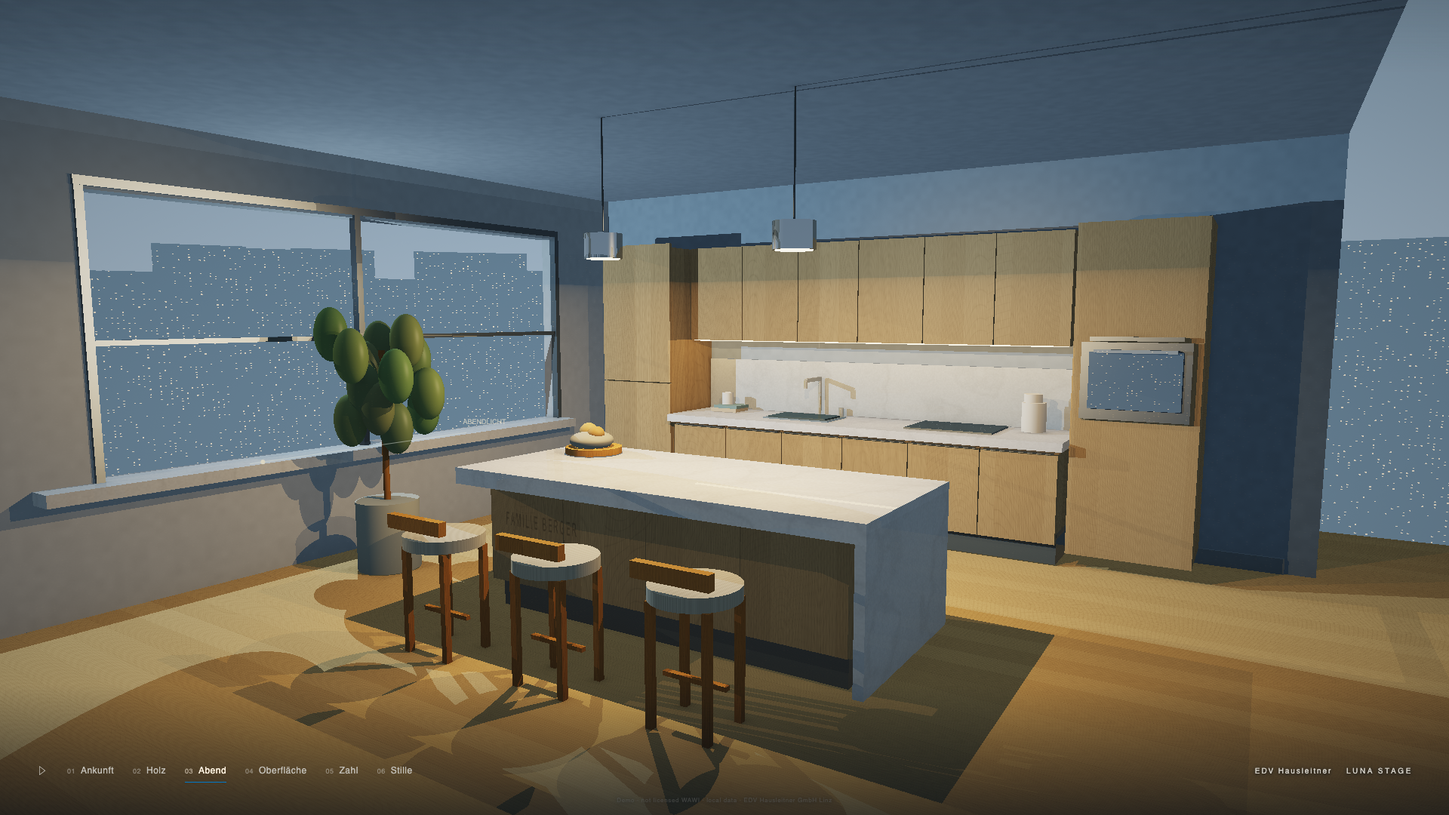
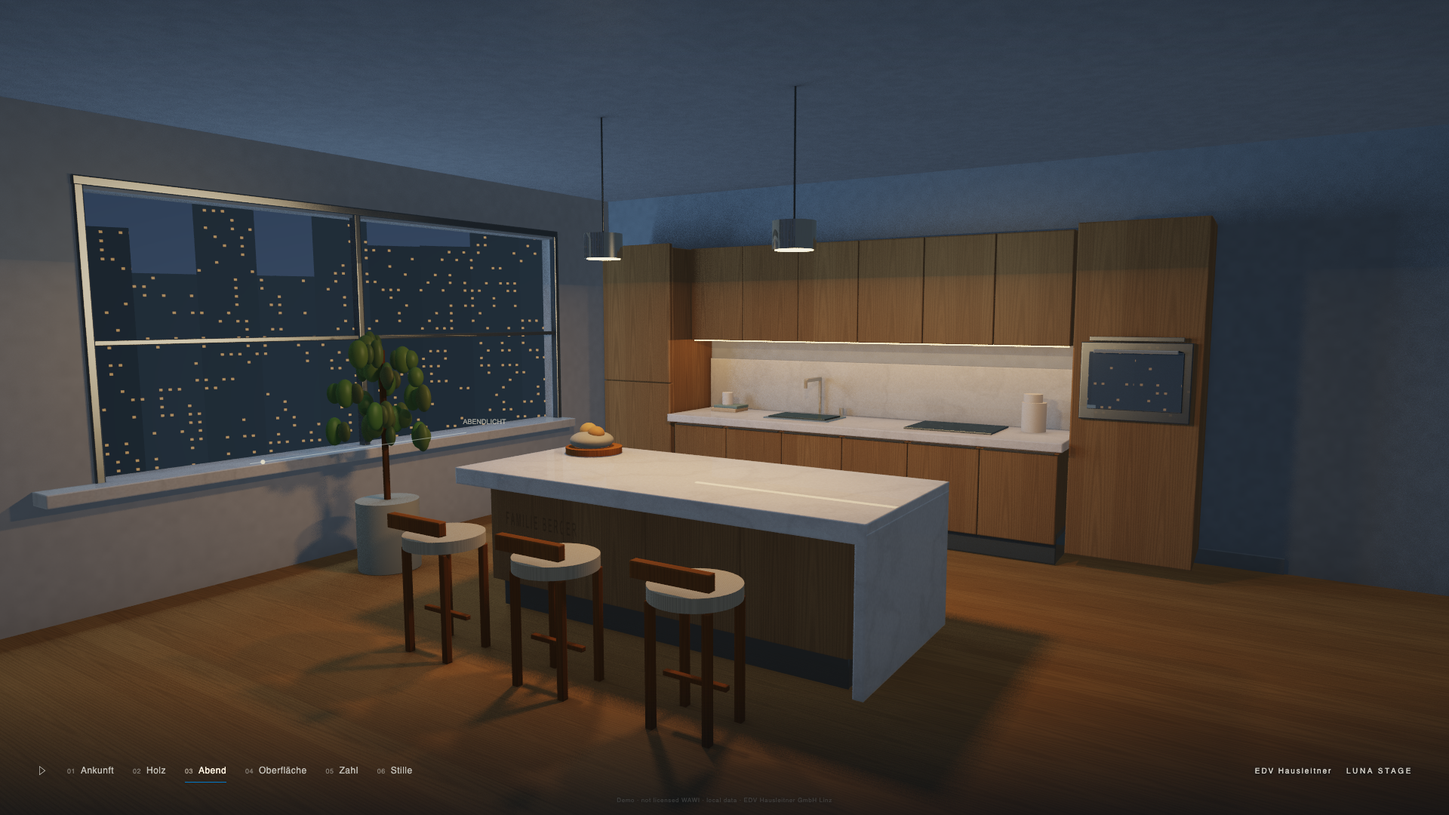
Refine area-light shadows, progressive antialiasing, engraved price and real GPU PNG readback

diff --git a/Luna-Stage.html b/Luna-Stage.html
@@ -25,15 +25,16 @@
 const $=id=>document.getElementById(id), clamp=(v,a=0,b=1)=>Math.max(a,Math.min(b,v)),mix=(a,b,t)=>a+(b-a)*t,smooth=t=>t*t*(3-2*t);
 const V={add:(a,b)=>a.map((v,i)=>v+b[i]),sub:(a,b)=>a.map((v,i)=>v-b[i]),mul:(a,s)=>a.map(v=>v*s),dot:(a,b)=>a.reduce((s,v,i)=>s+v*b[i],0),cross:(a,b)=>[a[1]*b[2]-a[2]*b[1],a[2]*b[0]-a[0]*b[2],a[0]*b[1]-a[1]*b[0]],norm:a=>{let l=Math.hypot(...a)||1;return a.map(v=>v/l)},lerp:(a,b,t)=>a.map((v,i)=>mix(v,b[i],t))};
 const Luna=window.Luna={theme:{accent:'#0078C8',navy:'#101b25',oak:'#a47d4f',chalk:'#e9e1d3'},gpu:{ready:false,backend:'Canvas2D',errors:[],frames:0,invalidate:()=>{}},cam:{},scene:{},hud:{},store:{key:'luna.stage.v1'}};
-Luna.store.read=()=>{try{const o=JSON.parse(localStorage.getItem(Luna.store.key)||'null');return o&&o.version===1?{material:o.material===1?1:0,sun:Number.isFinite(o.sun)?clamp(o.sun):.76,price:o.price===true}:null}catch{return null}};
-Luna.store.write=()=>{try{localStorage.setItem(Luna.store.key,JSON.stringify({version:1,material:Luna.scene.material,sun:Luna.scene.sun,price:Luna.scene.price}));return true}catch{return false}};
+Luna.store.read=()=>{try{const o=JSON.parse(localStorage.getItem(Luna.store.key)||'null');return o&&o.version===1?{material:o.material===1?1:0,sun:Number.isFinite(o.sun)?clamp(o.sun):.76,price:o.price===true,chapter:Number.isInteger(o.chapter)?clamp(o.chapter,0,5):0}:null}catch{return null}};
+Luna.store.write=()=>{try{localStorage.setItem(Luna.store.key,JSON.stringify({version:1,material:Luna.scene.material,sun:Luna.scene.sun,price:Luna.scene.price,chapter:Luna.cam.chapter}));return true}catch{return false}};
 const saved=Luna.store.read();Object.assign(Luna.scene,{family:'Berger',runMM:3600,priceEUR:18740,vat:20,week:38,material:saved?.material||0,sun:saved?.sun??.76,price:saved?.price||false,ceo:false,objects:[]});
 /* Primitive ABI: centre.xyz/type, half-extents.xyz/material, albedo.xyz/shadow. 0 box, 1 ellipsoid, 2 Y-cylinder. */
 const O=Luna.scene.objects;function box(c,s,m=1,col=[1,1,1],shadow=1){O.push({c,s,m,col,type:0,shadow});return O.length-1}function ell(c,s,m,col){O.push({c,s,m,col,type:1,shadow:1})}function cyl(c,r,h,m,col=[1,1,1]){O.push({c,s:[r,h/2,r],m,col,type:2,shadow:1})}
 // Materials: plaster 1, oak/variant 2, stone 3, charcoal 4, metal 5, emission 6, ceramic 7, fixed oak 8, city 9, fabric 10.
 box([0,-.07,.7],[4.5,.07,5.2],8,[.72,.68,.57],0);
-box([0,1.65,-2.86],[3.5,1.65,.07],1,[.28,.33,.35],0);
-box([0,3.27,.0],[3.5,.06,4.5],1,[.38,.40,.40],0);
+box([.5,1.65,-2.86],[4.0,1.65,.07],1,[.28,.33,.35],0);
+box([.5,3.27,.0],[4.0,.06,4.5],1,[.38,.40,.40],0);
+box([4.48,1.65,1.5],[.06,1.65,4.35],1,[.26,.30,.32],0);
 // Window wall, open light aperture. No transparent box covering the view.
 box([-3.33,.40,.1],[.09,.40,3.1],1,[.52,.53,.50],0);box([-3.33,3.01,.1],[.09,.28,3.1],1,[.52,.53,.50],0);
 box([-3.33,1.77,-2.5],[.09,1.02,.58],1,[.52,.53,.5],0);box([-3.33,1.77,3.1],[.09,1.02,.76],1,[.52,.53,.5],0);
@@ -79,7 +80,7 @@ for(const x of [-.62,.79]){cyl([x,2.83,.39],.006,.80,4,[.08,.10,.1]);cyl([x,2.39
 for(const x of [-.85,.02,.9]){for(const dx of [-.16,.16])for(const dz of [-.14,.14])box([x+dx,.31,1.56+dz],[.019,.31,.019],8,[.46,.30,.15]);box([x,.22,1.56],[.18,.012,.016],8,[.46,.30,.15]);cyl([x,.66,1.56],.23,.07,10,[.57,.51,.38]);box([x,.78,1.75],[.218,.04,.025],8,[.55,.38,.20]);}
 // Leafy olive tree by the window, modelled geometry rather than an image.
 cyl([-2.55,.27,.70],.23,.53,7,[.42,.42,.34]);cyl([-2.55,1.00,.70],.024,1.36,8,[.32,.23,.12]);
-for(let i=0;i<15;i++){const a=i*2.4,r=.14+(i%3)*.10,y=1.1+i*.05;ell([-2.55+Math.cos(a)*r,y,.70+Math.sin(a)*r],[.15,.20,.10],7,[.17+(i%2)*.03,.23+(i%3)*.025,.11]);}
+for(let i=0;i<42;i++){const a=i*2.39996,r=.07+(i%7)*.047,y=1.03+(i%13)*.057;ell([-2.55+Math.cos(a)*r,y,.70+Math.sin(a)*r],[.043+(i%3)*.014,.075+(i%2)*.030,.033+(i%4)*.011],7,[.12+(i%3)*.02,.19+(i%4)*.022,.075]);}
 // Small skirting line makes the wall contact explicit.
 box([0,.062,-2.766],[3.30,.06,.012],1,[.25,.28,.28]);
 Luna.scene.bounds=()=>({runMM:3600,modules:6,moduleMM:600,objects:O.length});
@@ -88,7 +89,7 @@ Luna.cam.chapters=[
 {name:'Holz',eye:[1.00,1.26,2.48],to:[-.46,.72,.25],end:[.62,1.17,2.02],sun:.06,fov:45},
 {name:'Abend',eye:[3.12,1.94,4.8],to:[-.23,1.27,-.48],end:[2.88,1.87,4.5],sun:.94,fov:51},
 {name:'Oberfläche',eye:[2.50,1.74,3.80],to:[.0,1.10,-.48],end:[2.16,1.73,3.63],sun:.30,fov:51},
-{name:'Zahl',eye:[2.32,2.65,3.5],to:[.12,.91,.38],end:[2.03,2.45,3.21],sun:.72,fov:43},
+{name:'Zahl',eye:[.94,2.70,3.47],to:[.12,.97,.25],end:[.70,2.58,3.25],sun:.79,fov:47},
 {name:'Stille',eye:[3.4,2.03,5.48],to:[-.30,1.32,-.52],end:[3.4,2.03,5.48],sun:.84,fov:53}
 ];
 Object.assign(Luna.cam,{chapter:0,time:0,duration:48,playing:!matchMedia('(prefers-reduced-motion: reduce)').matches,eye:[3.7,1.92,5.95],to:[-.25,1.30,-.60],fov:51,manual:false,transition:null});
@@ -115,11 +116,11 @@ let woodPattern=null;function makeWood(){let c=document.createElement('canvas');
 makeWood();
 Luna.gpu.drawStill=(canvas,chapter=Luna.cam.chapter,thumb=false)=>{const g=canvas.getContext('2d'),w=canvas.width,h=canvas.height,old={eye:Luna.cam.eye,to:Luna.cam.to,fov:Luna.cam.fov};if(thumb){Luna.cam.eye=cs[chapter].eye;Luna.cam.to=cs[chapter].to;Luna.cam.fov=cs[chapter].fov}const evening=cs[chapter].sun,m=chapter===3?1:Luna.scene.material;let bg=g.createLinearGradient(0,0,w,h);bg.addColorStop(0,evening>.5?'#647780':'#bacad0');bg.addColorStop(1,'#1a2630');g.fillStyle=bg;g.fillRect(0,0,w,h);const faces=[];for(const o of O){let s=o.s,c=o.c;const vertices=[[-1,-1,-1],[1,-1,-1],[1,1,-1],[-1,1,-1],[-1,-1,1],[1,-1,1],[1,1,1],[-1,1,1]].map(p=>V.add(c,p.map((v,j)=>v*s[j])));for(const [ids,n] of [[[4,5,6,7],[0,0,1]],[[1,0,3,2],[0,0,-1]],[[0,4,7,3],[-1,0,0]],[[5,1,2,6],[1,0,0]],[[7,6,2,3],[0,1,0]],[[0,1,5,4],[0,-1,0]]]){const p=ids.map(i=>Luna.cam.project(vertices[i],w,h));if(p.some(v=>v.z<.1))continue;if(V.dot(n,V.sub(Luna.cam.eye,c))<0)continue;faces.push({p,d:p.reduce((s,v)=>s+v.z,0)/4,o,n})}}faces.sort((a,b)=>b.d-a.d);for(const f of faces){const {o,n,p}=f;let col=o.col,wood=o.m===8||(o.m===2&&!m);if(o.m===2)col=m?[.72,.70,.63]:[.62,.45,.28];if(o.m===3)col=o.col;if(o.m===6)col=[1,.78,.40];let k=(n[1]>.5?1:n[0]<-.5?.88:.69)*(1-evening*.27);g.beginPath();p.forEach((v,i)=>i?g.lineTo(v.x,v.y):g.moveTo(v.x,v.y));g.closePath();g.fillStyle='rgb('+col.map(v=>Math.round(clamp(v*k)*255)).join(',')+')';g.fill();if(wood){g.save();g.clip();g.globalAlpha=.36;g.fillStyle=g.createPattern(woodPattern,'repeat');g.fillRect(0,0,w,h);g.restore()}g.strokeStyle='rgba(9,17,21,.15)';g.lineWidth=.45;g.stroke()}if(!thumb){g.fillStyle='rgba(7,15,24,.10)';g.fillRect(0,0,w,h)}Luna.cam.eye=old.eye;Luna.cam.to=old.to;Luna.cam.fov=old.fov};
 function sizeStill(){let c=$('still');c.width=Math.min(1920,innerWidth*devicePixelRatio);c.height=Math.min(1080,innerHeight*devicePixelRatio);Luna.gpu.drawStill(c)}
-Luna.cam.apply(0);if(params.has('chapter'))Luna.cam.goto(clamp(Number(params.get('chapter'))-1,0,5),false);if(params.has('paused'))Luna.cam.playing=false;if(forcedFallback)Luna.cam.playing=false;
+Luna.cam.apply(0);if(saved&&!params.has('chapter')){Luna.cam.goto(saved.chapter,false);Object.assign(Luna.scene,{material:saved.material,sun:saved.sun,price:saved.price});Luna.cam.manual=true;}if(params.has('chapter'))Luna.cam.goto(clamp(Number(params.get('chapter'))-1,0,5),false);if(params.has('paused'))Luna.cam.playing=false;if(forcedFallback)Luna.cam.playing=false;
 sizeStill();Luna.gpu.firstImageMS=performance.now();requestAnimationFrame(()=>{Luna.gpu.firstPaintMS=performance.now()});
 /* A glyph texture is sampled in world coordinates by WGSL, so inscriptions receive room lighting and perspective. */
 const atlas=document.createElement('canvas');atlas.width=2048;atlas.height=1024;const ag=atlas.getContext('2d');
-function drawAtlas(){ag.clearRect(0,0,2048,1024);ag.fillStyle='#fff';ag.font='400 22px Segoe UI, Arial';ag.letterSpacing='5px';ag.fillText('F A M I L I E   B E R G E R',90,98);ag.font='300 158px Segoe UI, Arial';ag.fillText('18.740 €',80,278);ag.letterSpacing='0px';ag.font='400 34px Segoe UI, Arial';ag.fillText('inkl. 20 % USt · Montage KW38',90,357);ag.fillStyle='#999';ag.fillRect(90,401,1370,2);ag.font='400 24px Segoe UI, Arial';ag.fillText('E I N   R A U M .   I H R   Z U H A U S E .',90,456);ag.fillStyle='#fff';ag.font='300 66px Segoe UI, Arial';ag.fillText('31 %',90,686);ag.font='400 25px Segoe UI, Arial';ag.fillText('Marge · intern',90,734);ag.font='400 37px Segoe UI, Arial';ag.fillText('F A M I L I E   B E R G E R',80,881);ag.font='400 24px Segoe UI, Arial';ag.fillText('EICHE NATUR  /  3 600 mm',80,932)}drawAtlas();
+function drawAtlas(){ag.clearRect(0,0,2048,1024);ag.fillStyle='#fff';ag.font='400 22px Segoe UI, Arial';ag.letterSpacing='5px';ag.fillText('F A M I L I E   B E R G E R',90,98);ag.font='300 181px Segoe UI, Arial';ag.fillText('18.740 €',80,278);ag.letterSpacing='0px';ag.font='400 49px Segoe UI, Arial';ag.fillText('inkl. 20 % USt · Montage KW38',90,357);ag.fillStyle='#999';ag.fillRect(90,401,1370,2);ag.font='400 24px Segoe UI, Arial';ag.fillText('E I N   R A U M .   I H R   Z U H A U S E .',90,456);ag.fillStyle='#fff';ag.font='300 85px Segoe UI, Arial';ag.fillText('31 %',90,686);ag.font='400 36px Segoe UI, Arial';ag.fillText('Marge · intern',90,734);ag.font='400 37px Segoe UI, Arial';ag.fillText('F A M I L I E   B E R G E R',80,881);ag.font='400 24px Segoe UI, Arial';ag.fillText('EICHE NATUR  /  3 600 mm',80,932)}drawAtlas();
 const shader=`
 struct Params {eye:vec4f, forward:vec4f, right:vec4f, up:vec4f, view:vec4f, state:vec4f};
 struct Obj {centre:vec4f, size:vec4f, col:vec4f};
@@ -128,6 +129,8 @@ struct Hit {t:f32, id:i32, normal:vec3f};
 @group(0) @binding(1) var<storage,read> objects:array<Obj>;
 @group(0) @binding(2) var lettering:texture_2d<f32>;
 @group(0) @binding(3) var letterSampler:sampler;
+@group(0) @binding(4) var history:texture_2d<f32>;
+var<private> sampleSeed:vec3f;
 @vertex fn vs(@builtin(vertex_index) i:u32)->@builtin(position) vec4f {var p=array<vec2f,3>(vec2f(-1,-1),vec2f(3,-1),vec2f(-1,3));return vec4f(p[i],0,1);}
 fn hash(p:vec3f)->f32 {return fract(sin(dot(p,vec3f(127.1,311.7,74.7)))*43758.5453);}
 fn noise(p:vec3f)->f32{let i=floor(p);let f=fract(p);let a=f*f*(3.-2.*f);return mix(mix(mix(hash(i),hash(i+vec3f(1,0,0)),a.x),mix(hash(i+vec3f(0,1,0)),hash(i+vec3f(1,1,0)),a.x),a.y),mix(mix(hash(i+vec3f(0,0,1)),hash(i+vec3f(1,0,1)),a.x),mix(hash(i+vec3f(0,1,1)),hash(i+vec3f(1,1,1)),a.x),a.y),a.z);}
@@ -136,22 +139,29 @@ if(kind==1){let q=p/s;let d=rd/s;let a=dot(d,d);let b=dot(q,d);let cc=dot(q,q)-1
 if(kind==2){let a=dot(rd.xz,rd.xz);let b=dot(p.xz,rd.xz);let cc=dot(p.xz,p.xz)-s.x*s.x;let h=b*b-a*cc;var t=1e5;var n=vec3f(0,1,0);if(h>=0.&&a>.00001){let tt=(-b-sqrt(h))/a;let y=p.y+tt*rd.y;if(tt>.0005&&abs(y)<s.y){t=tt;n=normalize(vec3f(p.x+tt*rd.x,0,p.z+tt*rd.z));}}if(abs(rd.y)>.00001){let tt=(select(-s.y,s.y,rd.y<0.)-p.y)/rd.y;let q=p.xz+tt*rd.xz;if(tt>.0005&&tt<t&&dot(q,q)<s.x*s.x){t=tt;n=vec3f(0,select(-1.,1.,rd.y<0.),0);}}return vec4f(t,n);}
 let inv=1./(rd+vec3f(.0000001));let a=(-s-p)*inv;let b=(s-p)*inv;let near=min(a,b);let far=max(a,b);let tn=max(max(near.x,near.y),near.z);let tf=min(min(far.x,far.y),far.z);if(tf<max(tn,.0005)){return vec4f(1e5,0,0,0);}var t=tn;if(t<.0005){t=tf;}let q=(p+rd*t)/s;var n=vec3f(0,0,sign(q.z));if(abs(q.x)>abs(q.z)&&abs(q.x)>abs(q.y)){n=vec3f(sign(q.x),0,0);}else if(abs(q.y)>abs(q.z)){n=vec3f(0,sign(q.y),0);}return vec4f(t,n);}
 fn trace(ro:vec3f,rd:vec3f,limit:f32,shadows:bool)->Hit{var hit=Hit(limit,-1,vec3f(0));for(var i=0u;i<arrayLength(&objects);i++){let o=objects[i];if(shadows&&o.col.w<.5){continue;}let h=intersect(ro,rd,o);if(h.x<hit.t){hit=Hit(h.x,i32(i),h.yzw);}}return hit;}
-fn sky(rd:vec3f)->vec3f{let day=u.view.z;let y=clamp(rd.y*.7+.43,0.,1.);var c=mix(mix(vec3f(.91,.79,.58),vec3f(.34,.57,.73),y),mix(vec3f(.27,.34,.43),vec3f(.035,.10,.19),y),day);if(rd.y<.07){let k=floor(atan2(rd.z,rd.x)*25.);let height=.025+hash(vec3f(k,2,3))*.11;let building=step(rd.y,height);c=mix(c,mix(vec3f(.30,.37,.39),vec3f(.048,.084,.12),day),building*.84);let wx=fract(atan2(rd.z,rd.x)*230.);let wy=fract(rd.y*390.);let lit=step(.81,hash(vec3f(floor(atan2(rd.z,rd.x)*230.),floor(rd.y*390.),7)));c+=vec3f(.69,.47,.22)*lit*step(.26,wx)*step(wx,.58)*step(.3,wy)*step(wy,.64)*building*day*.9;}return c;}
-fn wood(p:vec3f,n:vec3f,mat:i32)->vec3f{var uv=vec2f(p.x,p.y);if(abs(n.x)>.5){uv=vec2f(p.z,p.y);}if(n.y>.5){uv=vec2f(p.x,p.z);if(mat==8){uv=vec2f(p.z,p.x);}}let board=floor(uv.x/.19);let offset=hash(vec3f(board,f32(mat),1));let x=uv.x*69.+offset*7.;let y=uv.y;let warp=noise(vec3f(uv.x*3.,y*.85,offset))*4.6+sin(y*2.1+offset*9.)*.6;let grain=sin((x+warp)*5.7)*.5+.5;let fine=pow(max(0.,sin((x+warp)*31.)),14.);let pore=noise(vec3f(uv.x*650.,y*14.,offset));let ring=pow(grain,9.);let knot=sin(length(vec2f((uv.x-(board*.19+.095))*45.,(y-.4-offset)*4.))*19.);var c=mix(vec3f(.27,.151,.066),vec3f(.59,.401,.203),.64+offset*.17);c*=.88+.14*grain-.10*ring-.09*fine+.075*pore+.028*knot;if(mat==8){c*=1.13;let seam=smoothstep(.0,.008,min(fract(uv.x/.19),1.-fract(uv.x/.19)));c*=.82+.18*seam;}return c;}
-fn baseColor(p:vec3f,n:vec3f,id:i32)->vec3f {let o=objects[id];let m=i32(o.size.w);var c=o.col.xyz;if(m==2){c=mix(wood(p,n,m),vec3f(.65,.615,.532),u.view.w);}if(m==8){c=wood(p,n,m)*o.col.xyz*1.8;}if(m==1){c*=.94+.09*noise(p*19.)+.026*noise(p*170.);}if(m==3){let v=noise(p*3.6)+noise(p*11.)*.28;let veins=pow(abs(sin(p.x*3.+p.z*3.2+v*5.)),24.);c*=.87+.095*noise(p*95.)+.07*v-.068*veins;}if(m==10){let weave=sin(p.x*510.)*sin(p.z*510.);c*=.88+.10*weave;}return c;}
+fn sky(rd:vec3f)->vec3f{let day=u.view.z;let y=clamp(rd.y*.75+.45,0.,1.);var c=mix(mix(vec3f(.69,.64,.50),vec3f(.30,.46,.57),y),mix(vec3f(.052,.078,.12),vec3f(.007,.021,.052),y),smoothstep(.35,1.,day));
+let az=atan2(rd.z,rd.x);let k=floor(az*19.);let height=.014+hash(vec3f(k,2,3))*.11;
+if(rd.y<height){let distance=hash(vec3f(k,4,8));c=mix(vec3f(.24,.29,.30),vec3f(.012,.025,.040),day)*(.65+distance*.28);let grid=vec2f(az*130.,rd.y*120.);let f=fract(grid);let lit=step(.78,hash(vec3f(floor(grid),7)));let pane=smoothstep(.17,.23,f.x)*(1.-smoothstep(.50,.59,f.x))*smoothstep(.24,.32,f.y)*(1.-smoothstep(.51,.60,f.y));c+=vec3f(.32,.18,.062)*lit*pane*day;}
+return c;}
+fn wood(p:vec3f,n:vec3f,mat:i32)->vec3f{var uv=vec2f(p.x,p.y);if(abs(n.x)>.5){uv=vec2f(p.z,p.y);}if(n.y>.5){uv=vec2f(p.x,p.z);if(mat==8){uv=vec2f(p.z,p.x);}}
+let board=floor(uv.x/.22);let offset=hash(vec3f(board,f32(mat),1));let bx=fract(uv.x/.22)-.5;let yy=uv.y+offset*3.;let warp=noise(vec3f(uv.x*4.,yy*.95,offset))*1.2+sin(yy*2.0+offset*12.)*.14;
+let rings=sqrt(pow(bx*2.4+warp*.16,2.)+pow(yy*.24,2.))*39.;let grain=.5+.5*sin(rings+noise(vec3f(uv.x*80.,yy*3.,offset))*.65);let pores=pow(max(0.,sin(uv.x*1600.+warp*25.)),14.);let variation=noise(vec3f(uv.x*250.,yy*8.,offset));var c=mix(vec3f(.235,.122,.053),vec3f(.42,.268,.124),.49+offset*.24);c*=.85+.23*grain-.15*pow(grain,13.)-.07*pores+.11*variation;
+if(mat==8){c*=.85;let seam=smoothstep(.0,.011,min(fract(uv.x/.22),1.-fract(uv.x/.22)));c*=.89+.11*seam;}return c;}
+fn baseColor(p:vec3f,n:vec3f,id:i32)->vec3f {let o=objects[id];let m=i32(o.size.w);var c=o.col.xyz;if(m==2){c=mix(wood(p,n,m),vec3f(.52,.48,.405),u.view.w);}if(m==8){c=wood(p,n,m)*o.col.xyz*1.8;}if(m==1){c*=.94+.09*noise(p*19.)+.026*noise(p*170.);}if(m==3){let v=noise(p*3.6)+noise(p*11.)*.28;let veins=pow(abs(sin(p.x*3.+p.z*3.2+v*5.)),24.);c*=.87+.095*noise(p*95.)+.07*v-.068*veins;}if(m==10){let weave=sin(p.x*510.)*sin(p.z*510.);c*=.88+.10*weave;}return c;}
 fn glyph(uv:vec2f)->f32{if(any(uv<vec2f(0))||any(uv>vec2f(1))){return 0.;}return textureSampleLevel(lettering,letterSampler,uv,0.).a;}
 fn inscription(p:vec3f,n:vec3f,c:vec3f)->vec3f{var col=c;if(n.y>.9&&abs(p.y-.959)<.008&&p.x>-.76&&p.x<1.39&&p.z>-.0&&p.z<1.03){let uv=vec2f((p.x+.76)/2.15,(p.z+.005)/1.05*.77);var a=glyph(uv);if(uv.y<.52){a*=u.state.x;}else{a*=u.state.y;}let edge=glyph(uv+vec2f(.00065,.001))*select(u.state.x,u.state.y,uv.y>.52);col=mix(col,col*.17,a*.88);col+=vec3f(.18,.16,.12)*max(0.,edge-a);}
 if(n.z>.9&&abs(p.z-.926)<.009&&abs(p.x)<1.23&&p.y>.32&&p.y<.77&&u.state.z<.5){let uv=vec2f((p.x+1.13)/2.8, .81+(.75-p.y)*.31);let a=glyph(uv);col=mix(col,col*.42,a*.55);}return col;}
+fn random2(k:f32)->vec2f{return vec2f(hash(sampleSeed+vec3f(k,17,31)),hash(sampleSeed+vec3f(41,k,73)))-.5;}
 fn visibility(p:vec3f,n:vec3f,l:vec3f,d:f32)->f32 {return select(0.,1.,trace(p+n*.002,l,d,true).id<0);}
-fn lighting(p:vec3f,n:vec3f,rd:vec3f,id:i32)->vec3f{let o=objects[id];let m=i32(o.size.w);let day=u.view.z;var base=inscription(p,n,baseColor(p,n,id));if(m==6){return o.col.xyz*(1.+day*2.4);}let wallContact=1.-.23*exp(-max(0.,p.y)*5.);let amb=mix(vec3f(.38,.42,.44),vec3f(.10,.145,.205),day);let up=.66+.34*max(n.y,0.);var col=base*amb*up*wallContact;
+fn lighting(p:vec3f,n:vec3f,rd:vec3f,id:i32)->vec3f{let o=objects[id];let m=i32(o.size.w);let day=u.view.z;var base=inscription(p,n,baseColor(p,n,id));if(m==6){return o.col.xyz*(.7+day*1.8);}let wallContact=1.-.23*exp(-max(0.,p.y)*5.);let amb=mix(vec3f(.40,.42,.42),vec3f(.12,.145,.195),day);let up=.66+.34*max(n.y,0.);var col=base*amb*up*wallContact;
 // Large window: broad, directional diffuse light and geometrically tested contacts.
-let window=vec3f(-3.15,2.15,.55);let wv=window-p;let wl=normalize(wv);let wn=max(dot(n,wl),0.);let wvis=visibility(p,n,wl,length(wv));let win=mix(vec3f(1.28,1.29,1.22),vec3f(.32,.46,.64),day);col+=base*win*wn*wvis*.70;
+let wj=random2(2.);let window=vec3f(-3.15,1.83+wj.x*1.65,.35+wj.y*3.4);let wv=window-p;let wl=normalize(wv);let wn=max(dot(n,wl),0.);let wvis=visibility(p,n,wl,length(wv));let win=mix(vec3f(1.18,1.19,1.13),vec3f(.115,.205,.355),day);col+=base*win*wn*wvis*.70;
 // The moving sun is admitted only through the physical window aperture.
-let sl=normalize(vec3f(-1.,mix(.79,.21,day),mix(-.32,.20,day)));let t=(-3.28-p.x)/sl.x;let wp=p+sl*t;let aperture=select(0.,1.,wp.y>.86&&wp.y<2.76&&wp.z> -1.9&&wp.z<2.30);let sv=visibility(p,n,sl,15.);col+=base*vec3f(1.8,1.55,1.16)*max(dot(n,sl),0.)*sv*aperture*(1.-day)*1.65;
+let sj=random2(4.)*.028;let sl=normalize(vec3f(-1.,mix(.79,.21,day)+sj.x,mix(-.32,.20,day)+sj.y));let t=(-3.28-p.x)/sl.x;let wp=p+sl*t;let aperture=select(0.,1.,wp.y>.86&&wp.y<2.76&&wp.z> -1.9&&wp.z<2.30);let sv=visibility(p,n,sl,15.);col+=base*vec3f(1.8,1.55,1.16)*max(dot(n,sl),0.)*sv*aperture*pow(1.-day,3.)*1.8;
 // Warm 2700 K pendant pools: shadow rays give contact shadows on the slab.
-for(var j=0;j<2;j++){let lp=vec3f(select(-.62,.79,j==1),2.27,.39);let d=lp-p;let dist=length(d);let ld=d/dist;let nl=max(0.,dot(n,ld));let cone=pow(max(0.,ld.y),.30);let lv=visibility(p,n,ld,dist-.025);let power=mix(.16,1.25,day);col+=base*vec3f(1.,.67,.34)*nl*lv*cone*power/(.55+dist*dist*.44);let h=normalize(ld-rd);let spec=pow(max(0.,dot(n,h)),select(45.,145.,m==5));col+=vec3f(1.,.78,.48)*spec*lv*power*select(.03,.6,m==5||m==4);}
+for(var j=0;j<2;j++){let pj=random2(9.+f32(j))*.22;let lp=vec3f(select(-.62,.79,j==1)+pj.x,2.27,.39+pj.y);let d=lp-p;let dist=length(d);let ld=d/dist;let nl=max(0.,dot(n,ld));let cone=pow(max(0.,ld.y),.30);let lv=visibility(p,n,ld,dist-.025);let power=mix(.04,.76,day);col+=base*vec3f(1.,.57,.255)*nl*lv*cone*power/(.55+dist*dist*.44);let h=normalize(ld-rd);let spec=pow(max(0.,dot(n,h)),select(45.,145.,m==5));col+=vec3f(1.,.78,.48)*spec*lv*power*select(.03,.6,m==5||m==4);}
 // Strip illumination, with vertical falloff and dark countertop contact.
-if(p.z< -1.86&&abs(p.x)<1.88&&p.y<1.70&&p.y>.88){let ld=normalize(vec3f(0.,1.696-p.y,-2.35-p.z));let light=exp(-length(vec2f(p.y-1.69,p.z+2.38))*1.5);col+=base*vec3f(1.0,.65,.32)*light*(.24+day*.9)*max(.28,dot(n,ld));}
+if(p.z< -1.86&&abs(p.x)<1.88&&p.y<1.70&&p.y>.88){let ld=normalize(vec3f(0.,1.696-p.y,-2.35-p.z));let light=exp(-length(vec2f(p.y-1.69,p.z+2.38))*1.5);col+=base*vec3f(1.0,.55,.24)*light*(.24+day*.9)*max(.28,dot(n,ld));}
 // Recess AO: analytically darken points close to other solid bounds. Distance-bounded and stable.
 var ao=1.;if(m!=6){for(var i=0u;i<arrayLength(&objects);i++){if(i==u32(id)||objects[i].col.w<.5){continue;}let ob=objects[i];let q=abs(p+n*.03-ob.centre.xyz)-ob.size.xyz;let dd=length(max(q,vec3f(0.)));if(dd<.12){let align=max(.0,dot(n,normalize(ob.centre.xyz-p)));ao*=1.-exp(-dd*36.)*align*.23;}}}col*=max(.40,ao);
 if(m==3||m==5||m==4){let rr=reflect(rd,n);let rh=trace(p+n*.004,rr,18.,false);var reflected=sky(rr);if(rh.id>=0){reflected=baseColor(p+n*.004+rr*rh.t,rh.normal,rh.id)*mix(vec3f(.4,.43,.44),vec3f(.20,.25,.30),day);if(i32(objects[rh.id].size.w)==6){reflected=objects[rh.id].col.xyz*1.9;}}let fres=pow(1.-max(0.,dot(n,-rd)),5.);let reflectivity=select(.055,.4,m==5);col=mix(col,reflected,clamp(reflectivity+fres*.38,0.,.70));}
@@ -159,12 +169,25 @@ if(m==3||m==5||m==4){let rr=reflect(rd,n);let rh=trace(p+n*.004,rr,18.,false);va
 if(m==4&&n.y>.8&&p.y>.99&&p.z< -2.14&&p.x>.5&&p.x<1.3){for(var j=0;j<4;j++){let cc=vec2f(.71+f32(j%2)*.36,-2.57+f32(j/2)*.29);let r=abs(length(p.xz-cc)-.10);col+=vec3f(.055)*exp(-r*900.);}}
 return col;}
 fn tonemap(x:vec3f)->vec3f {let a=x*(2.51*x+.03);let b=x*(2.43*x+.59)+.14;return pow(clamp(a/b,vec3f(0),vec3f(1)),vec3f(1./2.2));}
-@fragment fn fs(@builtin(position) pixel:vec4f)->@location(0) vec4f {let uv=(pixel.xy/u.view.xy)*2.-1.;let rd=normalize(u.forward.xyz+u.right.xyz*uv.x*u.eye.w+u.up.xyz*(-uv.y)*u.forward.w);let hit=trace(u.eye.xyz,rd,80.,false);var col=sky(rd);if(hit.id>=0){let p=u.eye.xyz+rd*hit.t;col=lighting(p,hit.normal,rd,hit.id);col=mix(col,sky(rd)*.35,1.-exp(-hit.t*.0025));}col=tonemap(col*1.22);let vign=1.-.115*dot(uv,uv);col*=vign;col+=(hash(vec3f(pixel.xy,u.state.w))-.5)/450.;return vec4f(col,1.);}
+@fragment fn fs(@builtin(position) pixel:vec4f)->@location(0) vec4f {sampleSeed=vec3f(pixel.xy,u.state.w);let jitter=random2(53.);let uv=((pixel.xy+jitter)/u.view.xy)*2.-1.;let rd=normalize(u.forward.xyz+u.right.xyz*uv.x*u.eye.w+u.up.xyz*(-uv.y)*u.forward.w);let hit=trace(u.eye.xyz,rd,80.,false);var col=sky(rd);if(hit.id>=0){let p=u.eye.xyz+rd*hit.t;var normal=hit.normal;let ob=objects[hit.id];if(i32(ob.centre.w)==0&&ob.col.w>.5){let r=min(.009,min(min(ob.size.x,ob.size.y),ob.size.z)*.4);let q=abs(p-ob.centre.xyz)-ob.size.xyz+vec3f(r);normal=normalize(sign(p-ob.centre.xyz)*max(q,vec3f(0.00001)));}col=lighting(p,normal,rd,hit.id);col=mix(col,sky(rd)*.2,1.-exp(-hit.t*.001));}let prev=textureLoad(history,vec2i(pixel.xy),0).rgb;col=mix(prev,col,1./(u.state.w+1.));return vec4f(col,1.);}
 `;
+const presentShader=`
+@group(0) @binding(0) var hdr:texture_2d<f32>;
+@vertex fn vs(@builtin(vertex_index) i:u32)->@builtin(position) vec4f{var p=array<vec2f,3>(vec2f(-1,-1),vec2f(3,-1),vec2f(-1,3));return vec4f(p[i],0,1);}
+@fragment fn fs(@builtin(position) p:vec4f)->@location(0) vec4f{let uv=p.xy/vec2f(textureDimensions(hdr))*2.-1.;let x=textureLoad(hdr,vec2i(p.xy),0).rgb*.99;let a=x*(2.51*x+.03);let b=x*(2.43*x+.59)+.14;let color=pow(clamp(a/b,vec3f(0),vec3f(1)),vec3f(1./2.2));return vec4f(color*(1.-.08*dot(uv,uv)),1.);}`;
 let device,context,pipeline,uniform,bindGroup,dirty=true,lastFrame=0,raf=0,settleAt=0;
+let presentPipeline,format,staticEntries,histories=[],groups=[],presentGroups=[],historySize='',stateKey='',sampleCount=0,lastSurface;
+Luna.gpu.samples=0;Luna.gpu.targetSamples=28;
 Luna.gpu.invalidate=()=>{dirty=true;settleAt=performance.now();if(!Luna.gpu.ready){Luna.gpu.drawStill($('still'));Luna.hud.draw()}if(!raf)raf=requestAnimationFrame(tick)};
-Luna.gpu.render=(width,height)=>{if(!Luna.gpu.ready)return;let c=$('room');if(width&&height){c.width=width;c.height=height}else{const moving=Luna.cam.playing||!!Luna.cam.transition||performance.now()-settleAt<130;let scale=moving?.68:Math.min(devicePixelRatio,1.25);const maxW=moving?1280:1920;const ratio=Math.min(scale,maxW/innerWidth);c.width=Math.max(1,Math.round(innerWidth*ratio));c.height=Math.max(1,Math.round(innerHeight*ratio))}let b=Luna.cam.basis(),s=Luna.scene;const values=new Float32Array([...Luna.cam.eye,b.tan*c.width/c.height,...b.f,b.tan,...b.r,0,...b.u,0,c.width,c.height,s.sun,s.material,s.price?1:0,s.ceo?1:0,Luna.cam.chapter===5?1:0,0]);device.queue.writeBuffer(uniform,0,values);const enc=device.createCommandEncoder(),pass=enc.beginRenderPass({colorAttachments:[{view:context.getCurrentTexture().createView(),clearValue:{r:.06,g:.1,b:.14,a:1},loadOp:'clear',storeOp:'store'}]});pass.setPipeline(pipeline);pass.setBindGroup(0,bindGroup);pass.draw(3);pass.end();device.queue.submit([enc.finish()]);Luna.gpu.frames++;};
-Luna.gpu.init=async()=>{if(forcedFallback)throw new Error('Canvas2D explicitly selected');if(!navigator.gpu)throw new Error('WebGPU unavailable');const adapter=await navigator.gpu.requestAdapter({powerPreference:'high-performance'});if(!adapter)throw new Error('No WebGPU adapter');device=await adapter.requestDevice();Luna.gpu.adapter={vendor:adapter.info?.vendor,architecture:adapter.info?.architecture,device:adapter.info?.device,description:adapter.info?.description};device.addEventListener('uncapturederror',e=>{Luna.gpu.errors.push(e.error.message);console.error(e.error.message)});device.lost.then(info=>{Luna.gpu.errors.push(info.message);Luna.gpu.fallback('WebGPU-Verbindung unterbrochen')});context=$('room').getContext('webgpu');const format=navigator.gpu.getPreferredCanvasFormat();context.configure({device,format,alphaMode:'opaque'});const module=device.createShaderModule({code:shader});const info=await module.getCompilationInfo();const errs=info.messages.filter(m=>m.type==='error');if(errs.length)throw new Error(errs.map(e=>e.message+' at '+e.lineNum).join('\n'));pipeline=await device.createRenderPipelineAsync({layout:'auto',vertex:{module,entryPoint:'vs'},fragment:{module,entryPoint:'fs',targets:[{format}]},primitive:{topology:'triangle-list'}});uniform=device.createBuffer({size:96,usage:GPUBufferUsage.UNIFORM|GPUBufferUsage.COPY_DST});const data=new Float32Array(O.flatMap(o=>[...o.c,o.type,...o.s,o.m,...o.col,o.shadow]));const objects=device.createBuffer({size:data.byteLength,usage:GPUBufferUsage.STORAGE|GPUBufferUsage.COPY_DST});device.queue.writeBuffer(objects,0,data);const tex=device.createTexture({size:[2048,1024],format:'rgba8unorm',usage:GPUTextureUsage.TEXTURE_BINDING|GPUTextureUsage.COPY_DST|GPUTextureUsage.RENDER_ATTACHMENT});device.queue.copyExternalImageToTexture({source:atlas},{texture:tex},[2048,1024]);bindGroup=device.createBindGroup({layout:pipeline.getBindGroupLayout(0),entries:[{binding:0,resource:{buffer:uniform}},{binding:1,resource:{buffer:objects}},{binding:2,resource:tex.createView()},{binding:3,resource:device.createSampler({magFilter:'linear',minFilter:'linear'})}]});Luna.gpu.ready=true;Luna.gpu.backend='WebGPU';Luna.gpu.render();await device.queue.onSubmittedWorkDone();Luna.gpu.firstGPUMS=performance.now();document.body.classList.add('gpu');Luna.gpu.invalidate()};
+Luna.gpu.render=(width,height)=>{if(!Luna.gpu.ready)return;let c=$('room'),w=width,h=height;if(!w||!h){const moving=Luna.cam.playing||!!Luna.cam.transition||performance.now()-settleAt<130;const ratio=Math.min(moving?.77:Math.min(devicePixelRatio,1.25),(moving?1440:1920)/innerWidth);w=Math.max(1,Math.round(innerWidth*ratio));h=Math.max(1,Math.round(innerHeight*ratio))}if(c.width!==w)c.width=w;if(c.height!==h)c.height=h;
+if(historySize!==w+'x'+h){for(const t of histories)t.destroy();histories=[0,1].map(()=>device.createTexture({size:[w,h],format:'rgba16float',usage:GPUTextureUsage.TEXTURE_BINDING|GPUTextureUsage.RENDER_ATTACHMENT}));groups=histories.map(t=>device.createBindGroup({layout:pipeline.getBindGroupLayout(0),entries:[...staticEntries,{binding:4,resource:t.createView()}]}));presentGroups=histories.map(t=>device.createBindGroup({layout:presentPipeline.getBindGroupLayout(0),entries:[{binding:0,resource:t.createView()}]}));historySize=w+'x'+h;sampleCount=0;stateKey='';}
+const b=Luna.cam.basis(),s=Luna.scene;const key=[w,h,...Luna.cam.eye,...Luna.cam.to,Luna.cam.fov,s.sun,s.material,s.price,s.ceo,Luna.cam.chapter].join('|');if(key!==stateKey){sampleCount=0;stateKey=key;}
+const read=sampleCount%2,write=1-read;const values=new Float32Array([...Luna.cam.eye,b.tan*w/h,...b.f,b.tan,...b.r,0,...b.u,0,w,h,s.sun,s.material,s.price?1:0,s.ceo?1:0,Luna.cam.chapter===5?1:0,sampleCount]);device.queue.writeBuffer(uniform,0,values);
+const enc=device.createCommandEncoder(),pass=enc.beginRenderPass({colorAttachments:[{view:histories[write].createView(),loadOp:'clear',storeOp:'store'}]});pass.setPipeline(pipeline);pass.setBindGroup(0,groups[read]);pass.draw(3);pass.end();lastSurface=context.getCurrentTexture();const display=enc.beginRenderPass({colorAttachments:[{view:lastSurface.createView(),loadOp:'clear',storeOp:'store'}]});display.setPipeline(presentPipeline);display.setBindGroup(0,presentGroups[write]);display.draw(3);display.end();device.queue.submit([enc.finish()]);sampleCount++;Luna.gpu.samples=sampleCount;Luna.gpu.frames++;};
+Luna.gpu.init=async()=>{if(forcedFallback)throw new Error('Canvas2D explicitly selected');if(!navigator.gpu)throw new Error('WebGPU unavailable');const adapter=await navigator.gpu.requestAdapter({powerPreference:'high-performance'});if(!adapter)throw new Error('No WebGPU adapter');device=await adapter.requestDevice();Luna.gpu.adapter={vendor:adapter.info?.vendor,architecture:adapter.info?.architecture,device:adapter.info?.device,description:adapter.info?.description};device.addEventListener('uncapturederror',e=>{Luna.gpu.errors.push(e.error.message);console.error(e.error.message)});device.lost.then(info=>{Luna.gpu.errors.push(info.message);Luna.gpu.fallback('WebGPU-Verbindung unterbrochen')});context=$('room').getContext('webgpu');format=navigator.gpu.getPreferredCanvasFormat();context.configure({device,format,alphaMode:'opaque',usage:GPUTextureUsage.RENDER_ATTACHMENT|GPUTextureUsage.COPY_SRC});const module=device.createShaderModule({code:shader});const info=await module.getCompilationInfo();const errs=info.messages.filter(m=>m.type==='error');if(errs.length)throw new Error(errs.map(e=>e.message+' at '+e.lineNum).join('\n'));pipeline=await device.createRenderPipelineAsync({layout:'auto',vertex:{module,entryPoint:'vs'},fragment:{module,entryPoint:'fs',targets:[{format:'rgba16float'}]},primitive:{topology:'triangle-list'}});
+const pm=device.createShaderModule({code:presentShader});presentPipeline=await device.createRenderPipelineAsync({layout:'auto',vertex:{module:pm,entryPoint:'vs'},fragment:{module:pm,entryPoint:'fs',targets:[{format}]},primitive:{topology:'triangle-list'}});
+uniform=device.createBuffer({size:96,usage:GPUBufferUsage.UNIFORM|GPUBufferUsage.COPY_DST});const data=new Float32Array(O.flatMap(o=>[...o.c,o.type,...o.s,o.m,...o.col,o.shadow]));const objects=device.createBuffer({size:data.byteLength,usage:GPUBufferUsage.STORAGE|GPUBufferUsage.COPY_DST});device.queue.writeBuffer(objects,0,data);const tex=device.createTexture({size:[2048,1024],format:'rgba8unorm',usage:GPUTextureUsage.TEXTURE_BINDING|GPUTextureUsage.COPY_DST|GPUTextureUsage.RENDER_ATTACHMENT});device.queue.copyExternalImageToTexture({source:atlas},{texture:tex},[2048,1024]);staticEntries=[{binding:0,resource:{buffer:uniform}},{binding:1,resource:{buffer:objects}},{binding:2,resource:tex.createView()},{binding:3,resource:device.createSampler({magFilter:'linear',minFilter:'linear'})}];Luna.gpu.ready=true;Luna.gpu.backend='WebGPU';Luna.gpu.render();await device.queue.onSubmittedWorkDone();Luna.gpu.firstGPUMS=performance.now();document.body.classList.add('gpu');Luna.gpu.invalidate()};
+Luna.gpu.readPixels=async(w=1920,h=1080)=>{for(let i=0;i<32;i++)Luna.gpu.render(w,h);const pitch=Math.ceil(w*4/256)*256;const buf=device.createBuffer({size:pitch*h,usage:GPUBufferUsage.COPY_DST|GPUBufferUsage.MAP_READ});const enc=device.createCommandEncoder();enc.copyTextureToBuffer({texture:lastSurface},{buffer:buf,bytesPerRow:pitch,rowsPerImage:h},[w,h]);device.queue.submit([enc.finish()]);await buf.mapAsync(GPUMapMode.READ);const raw=new Uint8Array(buf.getMappedRange()),data=new Uint8ClampedArray(w*h*4);for(let y=0;y<h;y++)data.set(raw.subarray(y*pitch,y*pitch+w*4),y*w*4);if(format.startsWith('bgra'))for(let i=0;i<data.length;i+=4){let b=data[i];data[i]=data[i+2];data[i+2]=b;}buf.unmap();buf.destroy();return new ImageData(data,w,h)};
 Luna.gpu.fallback=reason=>{Luna.gpu.ready=false;Luna.gpu.backend='Canvas2D';Luna.gpu.reason=reason;Luna.cam.playing=false;document.body.classList.remove('gpu');document.body.classList.add('fallback');for(let i=0;i<6;i++)Luna.gpu.drawStill($('filmstrip').children[i].querySelector('canvas'),i,true);Luna.gpu.drawStill($('still'));Luna.hud.sync();Luna.hud.draw()};
 Luna.hud.draw=()=>{const c=$('inscriptions'),w=innerWidth,h=innerHeight;c.width=Math.round(w*devicePixelRatio);c.height=Math.round(h*devicePixelRatio);const g=c.getContext('2d');g.scale(devicePixelRatio,devicePixelRatio);if(Luna.cam.chapter===5&&!Luna.scene.ceo){$('sun').style.display='none';return}const a=Luna.cam.project([-3.035,.878,-.50]),b=Luna.cam.project([-3.035,.878,1.47]);if(a.z>.1&&b.z>.1){g.strokeStyle='rgba(224,229,219,.58)';g.lineWidth=.85;g.beginPath();g.moveTo(a.x,a.y);g.lineTo(b.x,b.y);g.stroke();let p={x:mix(a.x,b.x,Luna.scene.sun),y:mix(a.y,b.y,Luna.scene.sun)};g.beginPath();g.arc(p.x,p.y,3,0,Math.PI*2);g.fillStyle='#ddd8c4';g.fill();g.font='9px Segoe UI, Arial';g.fillStyle='rgba(229,221,201,.65)';g.fillText(Luna.scene.sun<.45?'MORGENLICHT':'ABENDLICHT',a.x-4,a.y-11);let el=$('sun');el.style.display='';el.style.left=a.x+'px';el.style.top=(a.y-11)+'px';el.style.width=Math.hypot(b.x-a.x,b.y-a.y)+'px';el.style.transform='rotate('+Math.atan2(b.y-a.y,b.x-a.x)+'rad)'}else $('sun').style.display='none';
 // Fallback inscriptions use a projective subdivision rather than a screen-space card.
@@ -173,10 +196,10 @@ $('sun').addEventListener('input',e=>{Luna.scene.sun=Number(e.target.value)/100;
 let pointer=null;function pointerDown(e){if(e.button!==0)return;pointer={x:e.clientX,y:e.clientY,lastX:e.clientX,lastY:e.clientY,moved:false};e.currentTarget.setPointerCapture(e.pointerId)}function pointerMove(e){if(!pointer)return;let dx=e.clientX-pointer.lastX,dy=e.clientY-pointer.lastY;if(Math.hypot(e.clientX-pointer.x,e.clientY-pointer.y)>5)pointer.moved=true;if(pointer.moved&&Luna.gpu.ready){Luna.cam.playing=false;Luna.cam.manual=true;Luna.cam.transition=null;let v=V.sub(Luna.cam.eye,Luna.cam.to),r=Math.hypot(...v),theta=Math.atan2(v[0],v[2])-dx*.0045,phi=clamp(Math.acos(v[1]/r)+dy*.0035,.24,1.53);Luna.cam.eye=V.add(Luna.cam.to,[r*Math.sin(phi)*Math.sin(theta),r*Math.cos(phi),r*Math.sin(phi)*Math.cos(theta)]);Luna.hud.sync();Luna.gpu.invalidate()}pointer.lastX=e.clientX;pointer.lastY=e.clientY}
 function pointerUp(e){if(!pointer)return;const moved=pointer.moved;pointer=null;if(moved)return;let hit=Luna.scene.pick(e.clientX,e.clientY);if(hit.object?.m===2)Luna.scene.cycle();else if(hit.object?.m===3)Luna.scene.togglePrice();else Luna.hud.hint('Berühren Sie eine Front oder die Arbeitsplatte. Ziehen Sie zum Umsehen.')}for(const el of [$('room'),$('still')]){el.addEventListener('pointerdown',pointerDown);el.addEventListener('pointermove',pointerMove);el.addEventListener('pointerup',pointerUp);el.addEventListener('pointercancel',()=>pointer=null);el.addEventListener('wheel',e=>{e.preventDefault();if(!Luna.gpu.ready)return;Luna.cam.playing=false;Luna.cam.manual=true;const d=V.sub(Luna.cam.eye,Luna.cam.to),r=Math.hypot(...d),nr=clamp(r*Math.exp(e.deltaY*.001),1.35,10);Luna.cam.eye=V.add(Luna.cam.to,V.mul(d,nr/r));Luna.hud.sync();Luna.gpu.invalidate()},{passive:false})}
 Luna.hud.fullscreen=async()=>{try{if(document.fullscreenElement)await document.exitFullscreen();else await document.documentElement.requestFullscreen()}catch{Luna.hud.hint('Vollbild ist in diesem Browser nicht freigegeben.')}};
-Luna.gpu.snapshot=async()=>{if(Luna.gpu.snapshotBusy)return;Luna.gpu.snapshotBusy=true;const old={eye:[...Luna.cam.eye],to:[...Luna.cam.to],fov:Luna.cam.fov,chapter:Luna.cam.chapter,time:Luna.cam.time,playing:Luna.cam.playing,manual:Luna.cam.manual,transition:Luna.cam.transition,scene:{sun:Luna.scene.sun,material:Luna.scene.material,price:Luna.scene.price,ceo:Luna.scene.ceo}};try{Luna.cam.goto(2,false);Luna.scene.price=false;Luna.scene.ceo=false;const out=document.createElement('canvas');out.width=1920;out.height=1080;const g=out.getContext('2d');if(Luna.gpu.ready){Luna.gpu.render(1920,1080);await device.queue.onSubmittedWorkDone();g.drawImage($('room'),0,0,1920,1080)}else Luna.gpu.drawStill(out,2);g.fillStyle='rgba(9,18,27,.30)';g.fillRect(0,1018,1920,62);g.font='400 14px Segoe UI, Arial';g.fillStyle='#ddd5c5';g.fillText('STAGE / Berger / Abend',44,1055);g.textAlign='right';g.font='400 12px Segoe UI, Arial';g.fillText('EDV Hausleitner · LUNA STAGE',1876,1055);const blob=await new Promise(resolve=>out.toBlob(resolve,'image/png'));if(!blob)throw Error('PNG export failed');Luna.gpu.lastSnapshot={width:1920,height:1080,type:blob.type,bytes:blob.size};const a=document.createElement('a');const url=URL.createObjectURL(blob);a.href=url;a.download='STAGE-Berger-Abend.png';a.click();setTimeout(()=>URL.revokeObjectURL(url),2000)}catch(e){Luna.hud.hint('Standbild konnte nicht gespeichert werden.');Luna.gpu.errors.push(String(e))}finally{Object.assign(Luna.cam,{eye:old.eye,to:old.to,fov:old.fov,chapter:old.chapter,time:old.time,playing:old.playing,manual:old.manual,transition:old.transition});Object.assign(Luna.scene,old.scene);Luna.gpu.snapshotBusy=false;Luna.hud.sync();Luna.gpu.invalidate()}};
+Luna.gpu.snapshot=async()=>{if(Luna.gpu.snapshotBusy)return;Luna.gpu.snapshotBusy=true;const old={eye:[...Luna.cam.eye],to:[...Luna.cam.to],fov:Luna.cam.fov,chapter:Luna.cam.chapter,time:Luna.cam.time,playing:Luna.cam.playing,manual:Luna.cam.manual,transition:Luna.cam.transition,scene:{sun:Luna.scene.sun,material:Luna.scene.material,price:Luna.scene.price,ceo:Luna.scene.ceo}};try{Luna.cam.goto(2,false);Luna.scene.price=false;Luna.scene.ceo=false;const out=document.createElement('canvas');out.width=1920;out.height=1080;const g=out.getContext('2d');if(Luna.gpu.ready){g.putImageData(await Luna.gpu.readPixels(1920,1080),0,0)}else Luna.gpu.drawStill(out,2);g.fillStyle='rgba(9,18,27,.30)';g.fillRect(0,1018,1920,62);g.font='400 14px Segoe UI, Arial';g.fillStyle='#ddd5c5';g.fillText('STAGE / Berger / Abend',44,1055);g.textAlign='right';g.font='400 12px Segoe UI, Arial';g.fillText('EDV Hausleitner · LUNA STAGE',1876,1055);const blob=await new Promise(resolve=>out.toBlob(resolve,'image/png'));if(!blob)throw Error('PNG export failed');Luna.gpu.lastSnapshot={width:1920,height:1080,type:blob.type,bytes:blob.size};const a=document.createElement('a');const url=URL.createObjectURL(blob);a.href=url;a.download='STAGE-Berger-Abend.png';a.click();setTimeout(()=>URL.revokeObjectURL(url),2000)}catch(e){Luna.hud.hint('Standbild konnte nicht gespeichert werden.');Luna.gpu.errors.push(String(e))}finally{Object.assign(Luna.cam,{eye:old.eye,to:old.to,fov:old.fov,chapter:old.chapter,time:old.time,playing:old.playing,manual:old.manual,transition:old.transition});Object.assign(Luna.scene,old.scene);Luna.gpu.snapshotBusy=false;Luna.hud.sync();Luna.gpu.invalidate()}};
 addEventListener('keydown',e=>{if(e.target.tagName==='INPUT')return;if(e.ctrlKey||e.metaKey||e.altKey)return;const k=e.key.toLowerCase();if(k==='f'){e.preventDefault();Luna.hud.fullscreen()}else if(k==='c'){Luna.scene.ceo=!Luna.scene.ceo;Luna.hud.sync();Luna.gpu.invalidate()}else if(k==='s'){e.preventDefault();Luna.gpu.snapshot()}else if(k===' '){e.preventDefault();Luna.cam.toggle()}else if(k==='escape'){Luna.cam.goto(5)}else if(k==='arrowright'){e.preventDefault();Luna.cam.goto((Luna.cam.chapter+1)%6)}else if(k==='arrowleft'){e.preventDefault();Luna.cam.goto((Luna.cam.chapter+5)%6)}else if(/^[1-6]$/.test(k)){Luna.cam.goto(Number(k)-1)}else if(k==='m'){Luna.scene.cycle()}else if(k==='p'){Luna.scene.togglePrice()}});
 addEventListener('resize',()=>{sizeStill();Luna.gpu.invalidate()});document.addEventListener('visibilitychange',()=>{lastFrame=performance.now();if(!document.hidden)Luna.gpu.invalidate()});
-function tick(now){raf=0;let dt=lastFrame?Math.min((now-lastFrame)/1000,.10):0;lastFrame=now;if(document.hidden)return;if(Luna.gpu.snapshotBusy){raf=requestAnimationFrame(tick);return}let moving=false;if(Luna.cam.playing&&Luna.gpu.ready){Luna.cam.time=Math.min(48,Luna.cam.time+dt);Luna.cam.chapter=Math.min(5,Math.floor(Luna.cam.time/8));Luna.cam.apply(Luna.cam.chapter,(Luna.cam.time%8)/8);if(Luna.cam.time>=48){Luna.cam.playing=false;Luna.cam.apply(5,1)}moving=true;Luna.hud.sync()}if(Luna.cam.transition){let t=clamp((now-Luna.cam.transition.start)/1100),v=Luna.cam.transition.old,c=cs[Luna.cam.chapter];const target=V.lerp(c.eye,c.end,smooth(.2));Luna.cam.eye=V.lerp(v.eye,target,smooth(t));Luna.cam.to=V.lerp(v.to,c.to,smooth(t));Luna.cam.fov=mix(v.fov,c.fov,smooth(t));Luna.scene.sun=mix(v.sun,c.sun,smooth(t));moving=true;if(t===1)Luna.cam.transition=null}if(dirty||moving||now-settleAt<260){if(Luna.gpu.ready)Luna.gpu.render();else Luna.gpu.drawStill($('still'));Luna.hud.draw();dirty=false}if(moving||now-settleAt<300)raf=requestAnimationFrame(tick)}
+function tick(now){raf=0;let dt=lastFrame?Math.min((now-lastFrame)/1000,1.0):0;lastFrame=now;if(document.hidden)return;if(Luna.gpu.snapshotBusy){raf=requestAnimationFrame(tick);return}let moving=false;if(Luna.cam.playing&&Luna.gpu.ready){Luna.cam.time=Math.min(48,Luna.cam.time+dt);Luna.cam.chapter=Math.min(5,Math.floor(Luna.cam.time/8));Luna.cam.apply(Luna.cam.chapter,(Luna.cam.time%8)/8);if(Luna.cam.time>=48){Luna.cam.playing=false;Luna.cam.apply(5,1)}moving=true;Luna.hud.sync()}if(Luna.cam.transition){let t=clamp((now-Luna.cam.transition.start)/1100),v=Luna.cam.transition.old,c=cs[Luna.cam.chapter];const target=V.lerp(c.eye,c.end,smooth(.2));Luna.cam.eye=V.lerp(v.eye,target,smooth(t));Luna.cam.to=V.lerp(v.to,c.to,smooth(t));Luna.cam.fov=mix(v.fov,c.fov,smooth(t));Luna.scene.sun=mix(v.sun,c.sun,smooth(t));moving=true;if(t===1)Luna.cam.transition=null}if(dirty||moving||now-settleAt<260||(Luna.gpu.ready&&Luna.gpu.samples<Luna.gpu.targetSamples)){if(Luna.gpu.ready)Luna.gpu.render();else Luna.gpu.drawStill($('still'));Luna.hud.draw();dirty=false}if(moving||now-settleAt<300||(Luna.gpu.ready&&Luna.gpu.samples<Luna.gpu.targetSamples))raf=requestAnimationFrame(tick)}
 Luna.hud.sync();Luna.hud.draw();Luna.gpu.init().catch(e=>{Luna.gpu.errors.push(String(e));console.warn('LUNA STAGE:',String(e));Luna.gpu.fallback(String(e))});
 </script>
 </body>

diff --git a/qa/verify.py b/qa/verify.py
@@ -34,7 +34,7 @@ with sync_playwright() as p:
         if ceo:page.evaluate('Luna.scene.ceo=true;Luna.hud.sync();Luna.gpu.invalidate()')
         page.wait_for_timeout(600)
         page.evaluate('Luna.gpu.render(1920,1080)')
-        page.wait_for_timeout(450)
+        page.wait_for_function('Luna.gpu.samples>=28',timeout=120000)
         path=out/(('live-' if args.live else '')+name+'.png');page.screenshot(path=str(path))
         report['screenshots'].append({'name':path.name,'sha256':hashlib.sha256(path.read_bytes()).hexdigest()});print('SHOT',path.name,flush=True)
     if report['gpu']['ready']:
